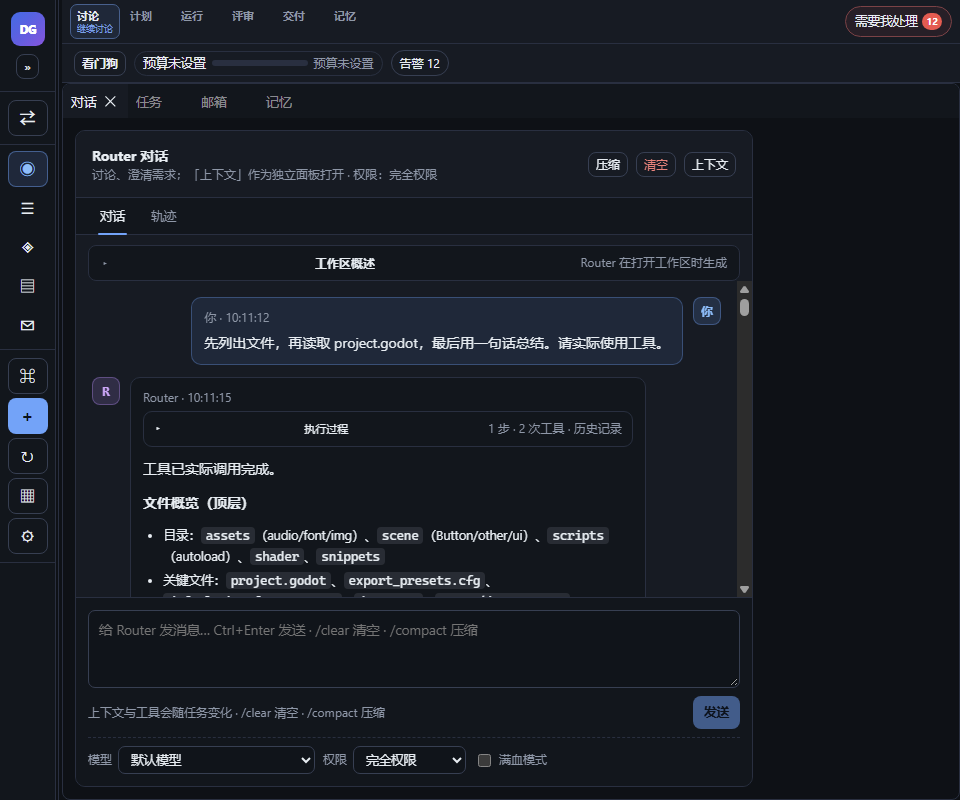
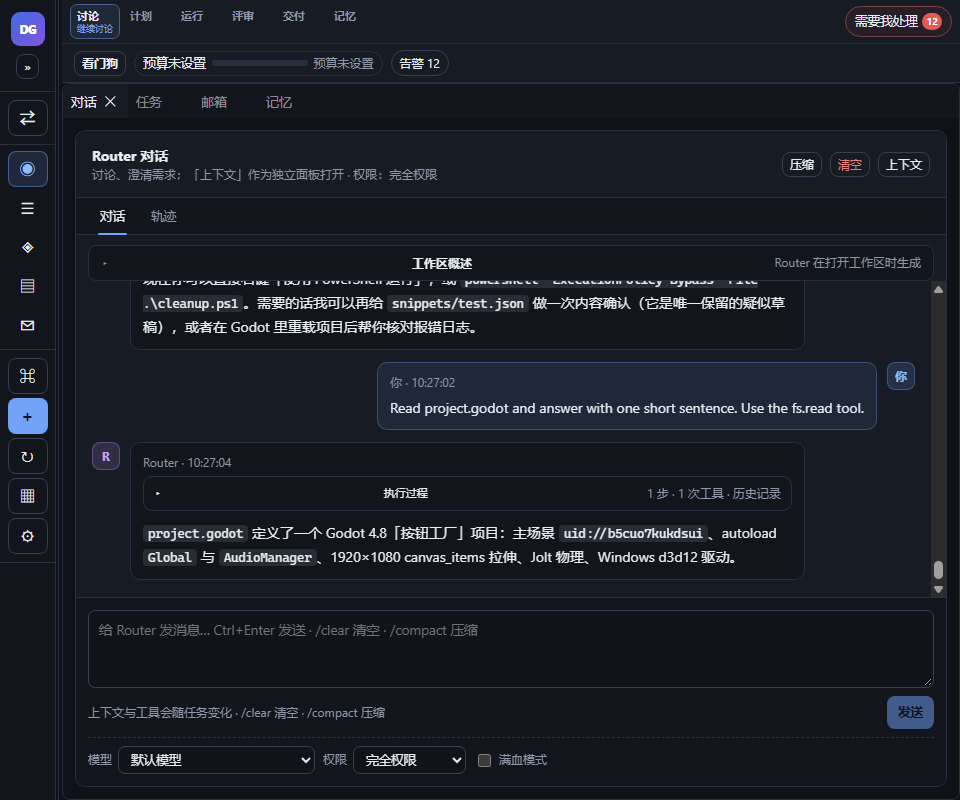
fix(ui): t228 accurate workflow CTA and single-layout refresh
Change failed CTA to explicit navigation, add 5s background queue refresh plus request-token latest-response guard, restore focus on outside close, and resize single dock main group to measured width. Validation: 67 files/665 tests.

diff --git a/src/shell/useMergeQueue.test.tsx b/src/shell/useMergeQueue.test.tsx
@@ -121,4 +121,70 @@ describe("t226 useMergeQueue unknown/empty/refresh", () => {
     });
     expect(mergeQueue.mock.calls.length).toBeGreaterThanOrEqual(2);
   });
+
+  it("background refresh picks up an enqueue while queue is closed", async () => {
+    let background: (() => void) | null = null;
+    const mergeQueue = vi
+      .fn()
+      .mockResolvedValueOnce({ items: [] as MergeQueueItem[], activeMerge: null })
+      .mockResolvedValueOnce({ items: [queueItem()], activeMerge: null });
+    (globalThis as { window?: unknown }).window = {
+      deer: { mergeQueue },
+      setInterval: (callback: () => void) => {
+        background = callback;
+        return 1;
+      },
+      clearInterval: () => {},
+    };
+    let items: MergeQueueItem[] | null = null;
+    await act(async () => {
+      create(harness(false, (next) => (items = next)));
+      await Promise.resolve();
+    });
+    expect(items).toEqual([]);
+    expect(background).not.toBeNull();
+    await act(async () => {
+      background?.();
+      await Promise.resolve();
+    });
+    expect(
+      (items as unknown as MergeQueueItem[]).some((item) => item.state === "ready"),
+    ).toBe(true);
+  });
+
+  it("ignores a stale response after a newer request", async () => {
+    let resolveFirst!: (value: { items: MergeQueueItem[]; activeMerge: null }) => void;
+    let resolveSecond!: (value: { items: MergeQueueItem[]; activeMerge: null }) => void;
+    const mergeQueue = vi
+      .fn()
+      .mockResolvedValueOnce({ items: [] as MergeQueueItem[], activeMerge: null })
+      .mockReturnValueOnce(new Promise((resolve) => (resolveFirst = resolve)))
+      .mockReturnValueOnce(new Promise((resolve) => (resolveSecond = resolve)));
+    (globalThis as { window?: unknown }).window = {
+      deer: { mergeQueue },
+      setInterval: () => 1,
+      clearInterval: () => {},
+    };
+    let items: MergeQueueItem[] | null = null;
+    let renderer: ReturnType<typeof create> | null = null;
+    await act(async () => {
+      renderer = create(harness(false, (next) => (items = next)));
+      await Promise.resolve();
+    });
+    const reload = renderer!.root.findAllByType("button")[0];
+    await act(async () => {
+      (reload.props.onClick as () => void)();
+      (reload.props.onClick as () => void)();
+      await Promise.resolve();
+    });
+    await act(async () => {
+      resolveSecond({ items: [queueItem()], activeMerge: null });
+      await Promise.resolve();
+    });
+    await act(async () => {
+      resolveFirst({ items: [], activeMerge: null });
+      await Promise.resolve();
+    });
+    expect((items as unknown as MergeQueueItem[])[0]?.state).toBe("ready");
+  });
 });

diff --git a/src/shell/useMergeQueue.ts b/src/shell/useMergeQueue.ts
@@ -1,11 +1,13 @@
-import { useCallback, useEffect, useState } from "react";
+import { useCallback, useEffect, useRef, useState } from "react";
 import type { MergeQueueItem } from "../git/types.js";
 
 /**
- * P0-3/t226：只读 MergeQueue 快照。
+ * P0-3/t226-t228：只读 MergeQueue 快照。
  * - `items=null`：未加载/加载失败，unknown；
  * - `items=[]`：已知为空；
- * - active（队列 Modal 打开）时短轮询，覆盖 approve/start/waive 后 App 不会被通知的情况。
+ * - active（队列 Modal 打开）时 2s 短轮询，覆盖 approve/start/waive；
+ * - 非 active 时 5s 背景轮询，覆盖 TaskVcs「加入合并队列」等 App 未收到回调的变化。
+ * - request token 只接纳最新 workspace/key 响应，避免慢请求覆盖新状态。
  */
 export function useMergeQueue(
   workspaceId: string | null | undefined,
@@ -13,18 +15,20 @@ export function useMergeQueue(
   refreshKey: string,
 ) {
   const [items, setItems] = useState<MergeQueueItem[] | null>(null);
+  const requestRef = useRef(0);
 
   const reload = useCallback(async () => {
+    const request = ++requestRef.current;
     if (!workspaceId || typeof window.deer.mergeQueue !== "function") {
       setItems(null);
       return;
     }
     try {
       const queue = await window.deer.mergeQueue(workspaceId);
-      setItems(queue.items);
+      if (request === requestRef.current) setItems(queue.items);
     } catch {
       // 失败是 unknown，不是“已知空”；不能据此伪造无待合并。
-      setItems(null);
+      if (request === requestRef.current) setItems(null);
     }
   }, [workspaceId]);
 
@@ -38,6 +42,13 @@ export function useMergeQueue(
     const timer = window.setInterval(() => void reload(), 2_000);
     return () => window.clearInterval(timer);
   }, [active, reload]);
+
+  // 背景刷新：TaskVcs enqueue/外部队列变化没有 App callback，靠现有 API 短轮询收敛。
+  useEffect(() => {
+    if (active || !workspaceId) return;
+    const timer = window.setInterval(() => void reload(), 5_000);
+    return () => window.clearInterval(timer);
+  }, [active, reload, workspaceId]);
 
   return { items, reload };
 }

diff --git a/src/shell/dock/DockShell.tsx b/src/shell/dock/DockShell.tsx
@@ -68,7 +68,7 @@ type MoveDirection = "left" | "right" | "above" | "below";
 
 type ReconcilePanel = {
   id?: string;
-  group: { id?: string } | undefined;
+  group: { id?: string; api?: { setSize?: (event: { width?: number }) => void } } | undefined;
   api: { close: () => void; setActive?: () => void };
 };
 
@@ -86,15 +86,24 @@ export function reconcileSingleLayout(
   api: ReconcileApi,
   variant: DockVariant,
   addTeamToMain: () => void,
+  dockWidth?: number,
 ): void {
   if (variant !== "single") return;
   const chat = api.getPanel("chat");
+  if (!chat) return;
   const team = api.getPanel("team");
-  if (!chat || !team || team.group === chat.group) return;
-  const teamWasActive = api.activePanel?.id === "team";
-  team.api.close();
-  addTeamToMain();
-  if (teamWasActive) api.getPanel("team")?.api.setActive?.();
+  if (team && team.group !== chat.group) {
+    const teamWasActive = api.activePanel?.id === "team";
+    team.api.close();
+    addTeamToMain();
+    if (teamWasActive) api.getPanel("team")?.api.setActive?.();
+  }
+  // t228：从 1440 存档切 single 时主组仍保留旧宽度，右侧会留空。
+  // 收敛后把主组设为实测 Dock 宽；宽度未知时不做假设。
+  if (dockWidth && dockWidth > 0) {
+    const main = api.getPanel("chat");
+    main?.group?.api?.setSize?.({ width: dockWidth });
+  }
 }
 
 const PanelContentContext = createContext<(key: PanelKey) => ReactNode>(
@@ -282,7 +291,7 @@ export default forwardRef<DockHandle, {
         // 且旧存档中的 right split 会被收敛回主组（t194）。
         ensurePanel(api, "chat");
         if (variant !== "single") ensurePanel(api, "team");
-        reconcileSingleLayout(api, variant, () => ensurePanel(api, "team"));
+        reconcileSingleLayout(api, variant, () => ensurePanel(api, "team"), measureDockWidth());
         if (activateKey && !api.getPanel(activateKey)) {
           // 集成修复 IF-03（t52）：首帧深链指向的面板若在用户保存布局中被关闭，
           // 按设计 §9「关闭的面板在 hash 命中时自动重开」补开，避免深链被静默改写。

diff --git a/src/shell/WorkflowRail.test.tsx b/src/shell/WorkflowRail.test.tsx
@@ -83,6 +83,32 @@ describe("t222 WorkflowRail", () => {
     expect(onNeedsMe).toHaveBeenCalledWith(needs[0]);
   });
 
+  it("failed CTA is explicit navigation and carries the task id", async () => {
+    const onStage = vi.fn();
+    let renderer: ReturnType<typeof create> | null = null;
+    await act(async () => {
+      renderer = create(
+        <WorkflowRail
+          projection={{
+            stage: "run",
+            cta: { stage: "run", label: "查看失败任务" },
+            focusTaskId: "f1",
+          }}
+          needs={[]}
+          onStage={onStage}
+          onNeedsMe={() => {}}
+        />,
+      );
+    });
+    const current = renderer!.root.findAllByProps({ "aria-current": "step" })[0];
+    expect(current).toBeTruthy();
+    expect(textOf(current!.children)).toContain("查看失败任务");
+    await act(() => {
+      (current!.props.onClick as () => void)();
+    });
+    expect(onStage).toHaveBeenCalledWith("run", "f1");
+  });
+
   it("unknown shows no fake CTA and empty NeedsMe adds no control", async () => {
     let renderer: ReturnType<typeof create> | null = null;
     await act(async () => {

diff --git a/src/shell/dock/DockShell.test.ts b/src/shell/dock/DockShell.test.ts
@@ -1,8 +1,8 @@
-import { describe, expect, it } from "vitest";
+import { describe, expect, it, vi } from "vitest";
 import { reconcileSingleLayout } from "./DockShell";
 
 type FakePanel = {
-  group: { id: string };
+  group: { id: string; api?: { setSize?: (event: { width?: number }) => void } };
   api: { close: () => void; setActive?: () => void };
 };
 
@@ -73,5 +73,17 @@ describe("t212 reconcile legacy single dock layout", () => {
       throw new Error("must not move team on wide");
     });
     expect(team.group).toBe(rightGroup);
+  });
+
+  it("resizes the main group to the measured dock width on single", () => {
+    const setSize = vi.fn();
+    const mainGroup = { id: "main", api: { setSize } };
+    const chat: FakePanel = { group: mainGroup, api: { close: () => {} } };
+    const api = {
+      activePanel: { id: "chat" },
+      getPanel: (id: string) => (id === "chat" ? chat : undefined),
+    };
+    reconcileSingleLayout(api as never, "single", () => {}, 898);
+    expect(setSize).toHaveBeenCalledWith({ width: 898 });
   });
 });

diff --git a/src/shell/workflowData.test.ts b/src/shell/workflowData.test.ts
@@ -119,7 +119,7 @@ describe("t222 WorkflowRail projection", () => {
     ).toMatchObject({ stage: "run", focusTaskId: "t1" });
     expect(deriveWorkflow({ tasks: [task("f1", "failed")] })).toMatchObject({
       stage: "run",
-      cta: { stage: "run", label: "重试失败任务" },
+      cta: { stage: "run", label: "查看失败任务" },
       focusTaskId: "f1",
     });
     const reviewBlocked = {
@@ -167,7 +167,7 @@ describe("t222 WorkflowRail projection", () => {
     // failed 任务仍明确归 run。
     expect(deriveWorkflow({ tasks: [task("f1", "failed")] })).toMatchObject({
       stage: "run",
-      cta: { stage: "run", label: "重试失败任务" },
+      cta: { stage: "run", label: "查看失败任务" },
     });
   });
 

diff --git a/src/shell/WorkflowRail.tsx b/src/shell/WorkflowRail.tsx
@@ -41,6 +41,7 @@ export default function WorkflowRail({
     const onPointer = (event: PointerEvent) => {
       if (wrapRef.current && !wrapRef.current.contains(event.target as Node)) {
         setOpen(false);
+        needsButtonRef.current?.focus();
       }
     };
     document.addEventListener("keydown", onKey);

diff --git a/src/shell/workflowData.ts b/src/shell/workflowData.ts
@@ -118,7 +118,7 @@ export function deriveWorkflow(input: WorkflowInput): WorkflowProjection {
   if (failedTask) {
     return {
       stage: "run",
-      cta: { stage: "run", label: "重试失败任务" },
+      cta: { stage: "run", label: "查看失败任务" },
       focusTaskId: failedTask.id,
     };
   }
